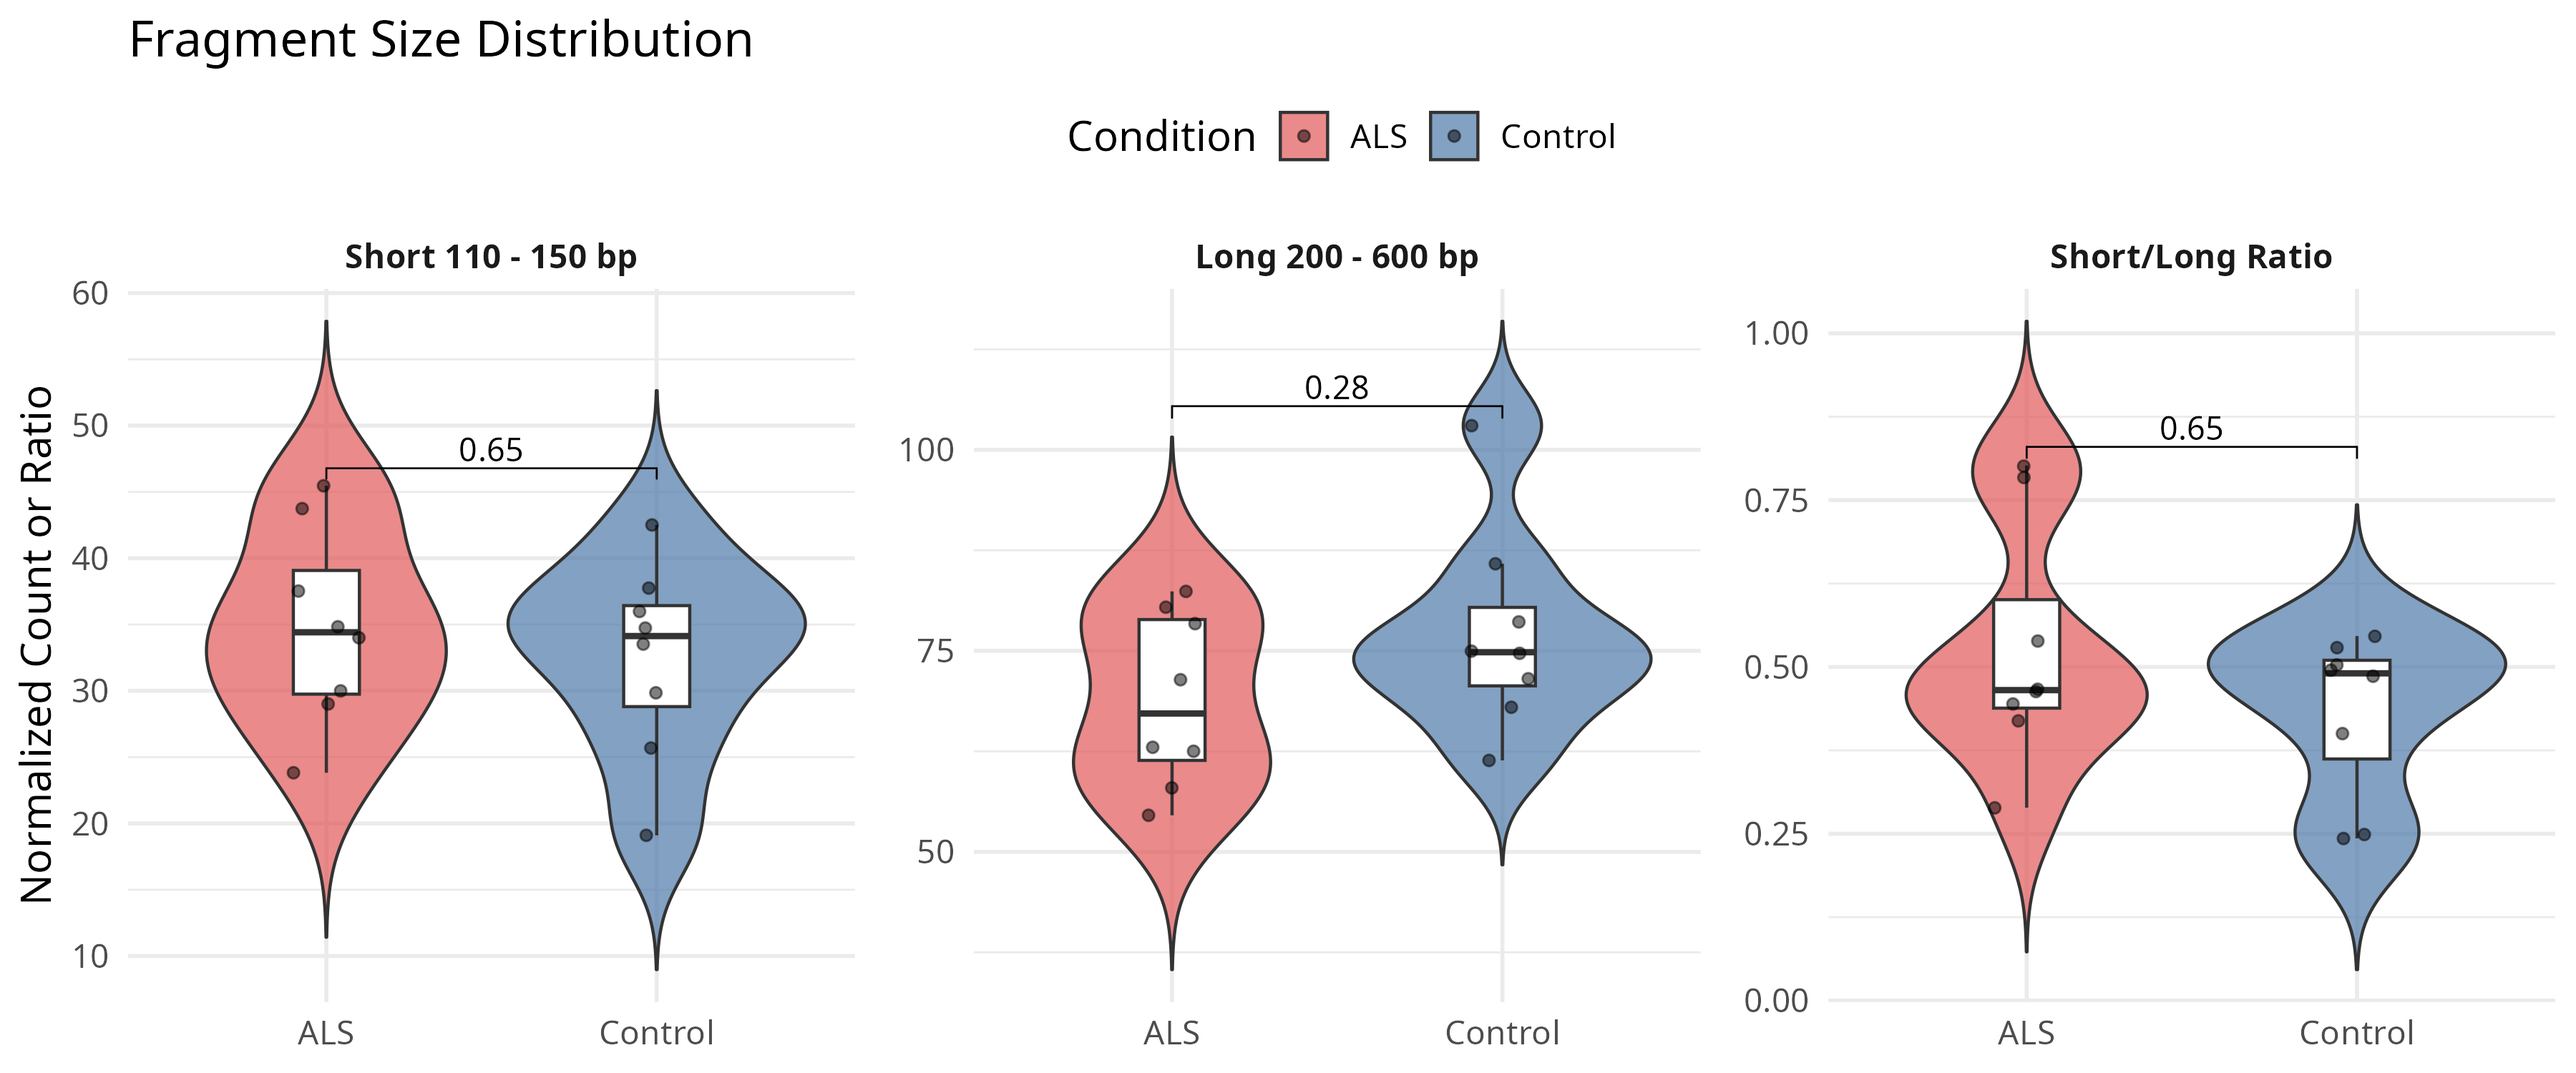
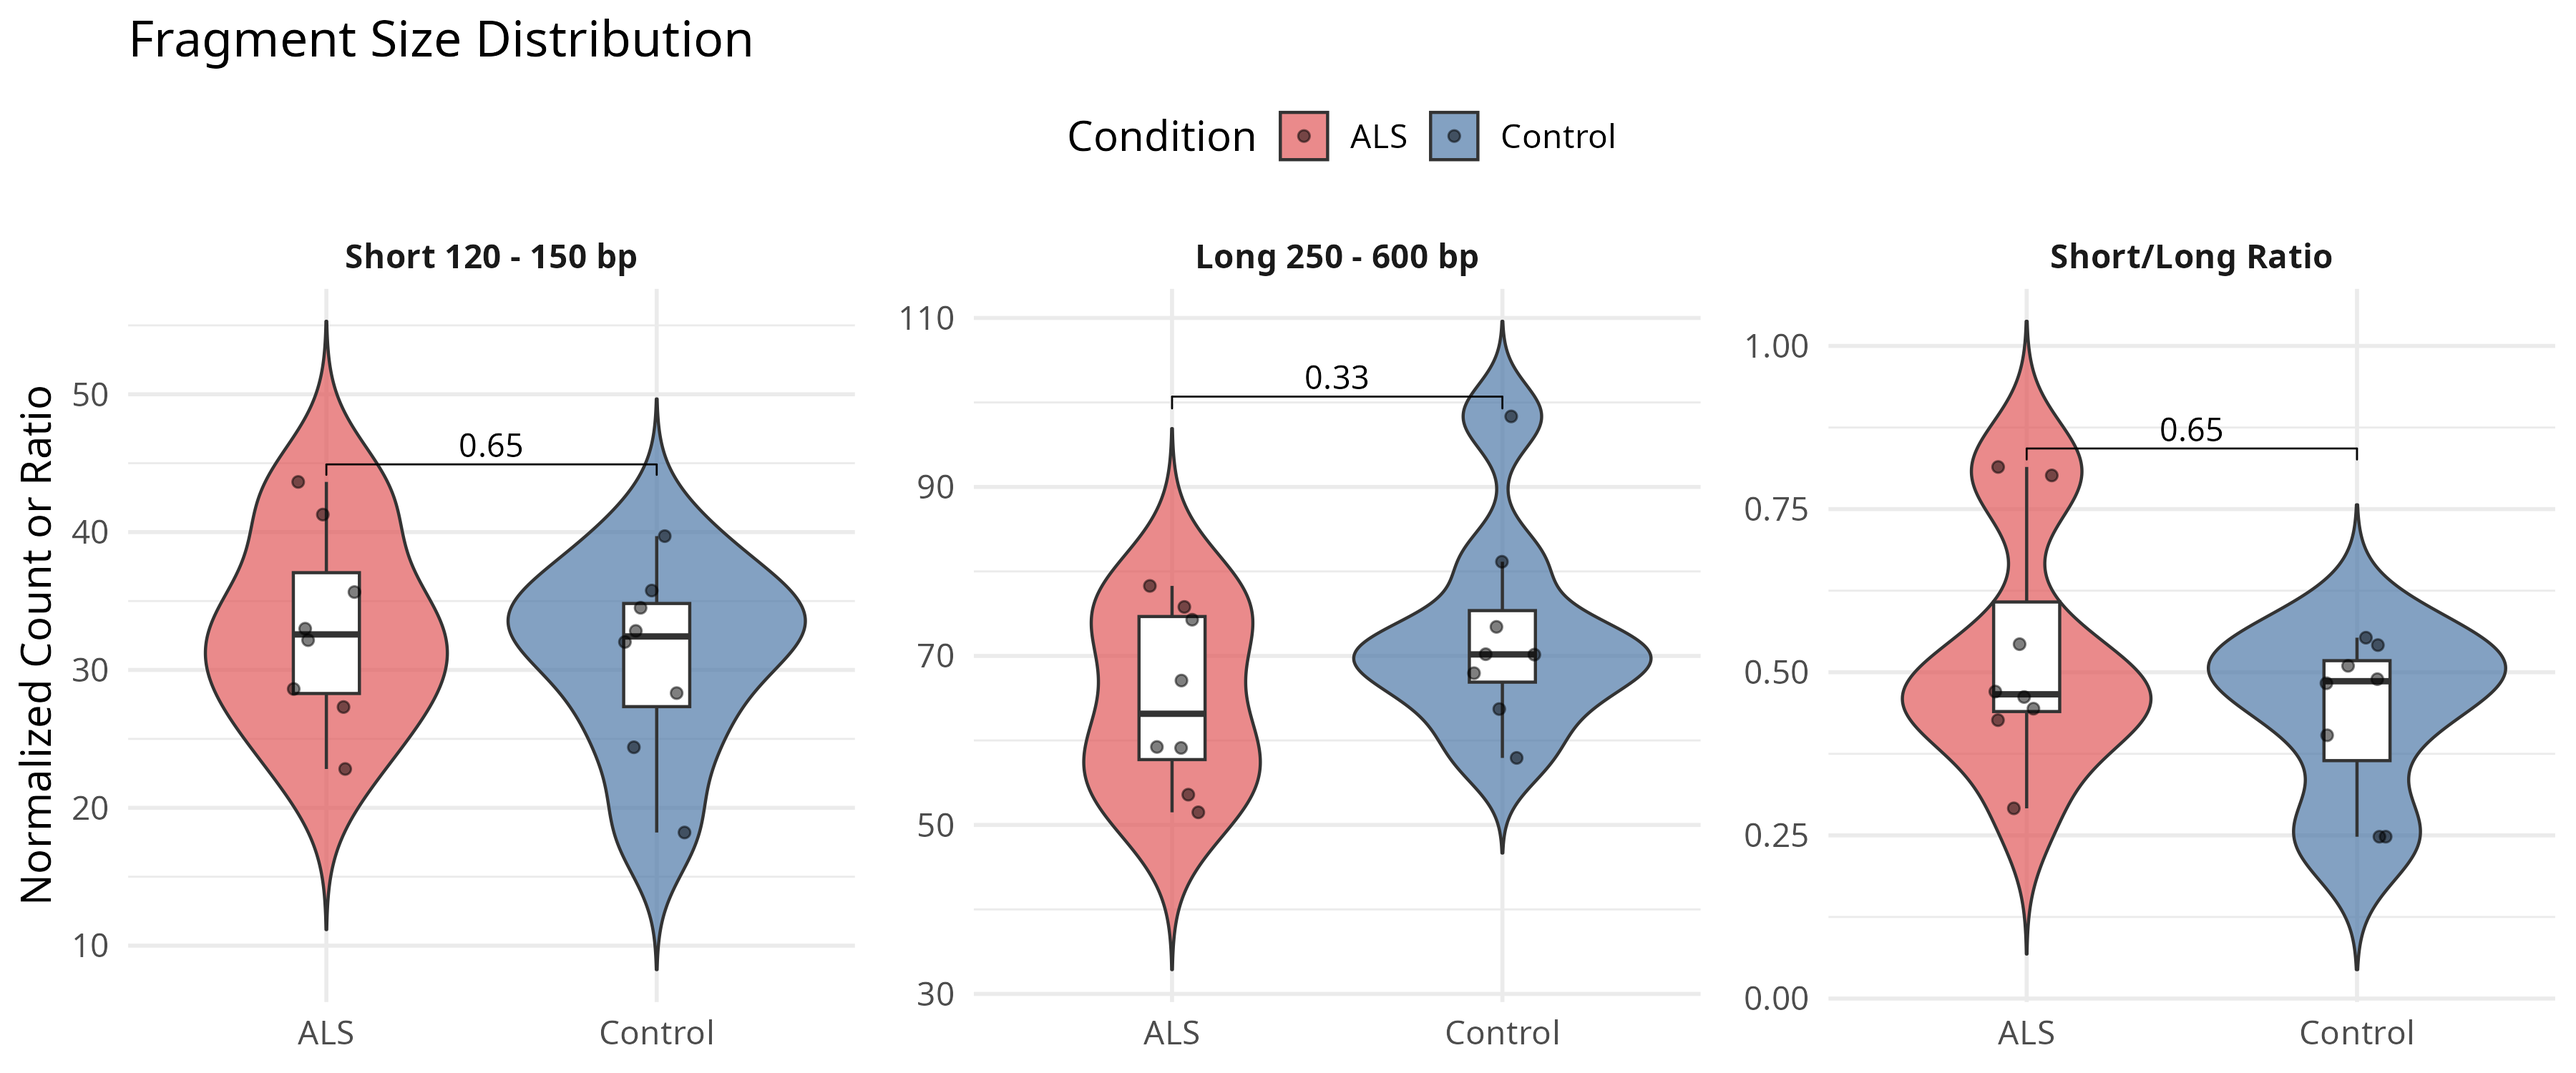
update

diff --git a/fragment_analysis/README.md b/fragment_analysis/README.md
@@ -88,6 +88,8 @@ This document performs:
 | `short-to-long_ratio_ALSvsCT.png`                     | Violin/boxplots of short/long/ratio              |
 | `fragment_size_distribution_BulbarvsSpinal.png`       | Insert size profile by ALS phenotype             |
 | `fragment_size_differnces_BulbarvsSpinal.png`         | Fragmentation differences (Bulbar vs Spinal)     |
+| `Nucleosome_Peak_Abundance_ALSvsCT.png`               | Nucleosome fragment abundance (ALS vs Control)   |
+| `Nucleosome_Peak_Abundance_BvsS.png`                  | Nucleosome fragment abundance (Bulbar vs Spinal) |
 | `short-to-long_ratio_BulbarvsSpinal.png`              | Ratio analysis by ALS phenotype                  |
 | `short-to-long_ratio_BulbarvsSpinal.png`              | Ratio analysis by ALS phenotype                  |
 | `GC_by_group.png`              | GC content in ALS and CT groups                  |
@@ -102,8 +104,9 @@ This document performs:
 | `plots/*.pdf`                            | Sample-level plots from Picard       
 
 ## Observations
-A trend toward increased short fragments and reduced long fragments in ALS vs. controls was observed but did not reach statistical significance.
+A trend toward increased short (mono-nucleosome) fragments and significantly lower long fragments (di and tri-nucleosome) in ALS vs. controls was observed but did not reach statistical significance.
 
-![Plot](figures/short-to-long_ratio_ALSvsCT.png)
-Bulbar-onset ALS showed significantly lower long fragment abundance and a higher short-to-long ratio compared to spinal-onset, suggesting potential phenotype-specific fragmentation signatures. These findings are preliminary and based on small sample numbers.
-![Plot](figures/short-to-long_ratio_BulbarvsSpinal.png)
+![Plot](figures/Nucleosome_Peak_Abundance_ALSvsCT.png)
+
+Bulbar-onset ALS showed significantly lower di and tri-nucleosome fragment abundance and a higher Mono-nucleosome fragment abundance compared to spinal-onset, suggesting potential phenotype-specific fragmentation signatures. These findings are preliminary and based on small sample numbers.
+![Plot](figures/Nucleosome_Peak_Abundance_BvsS.png)
